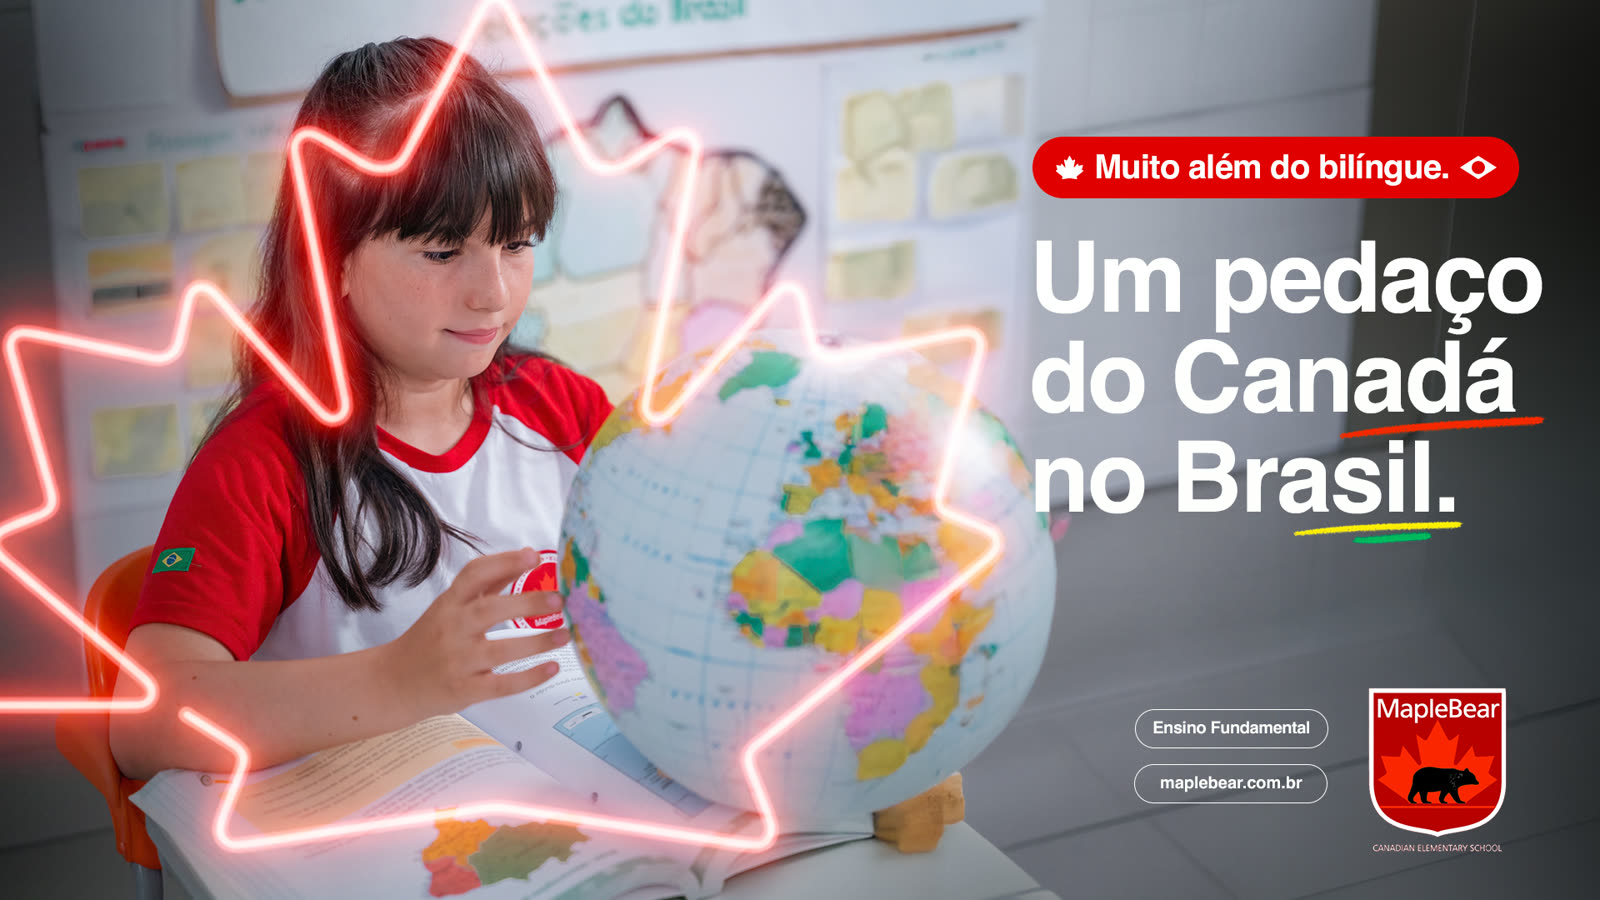
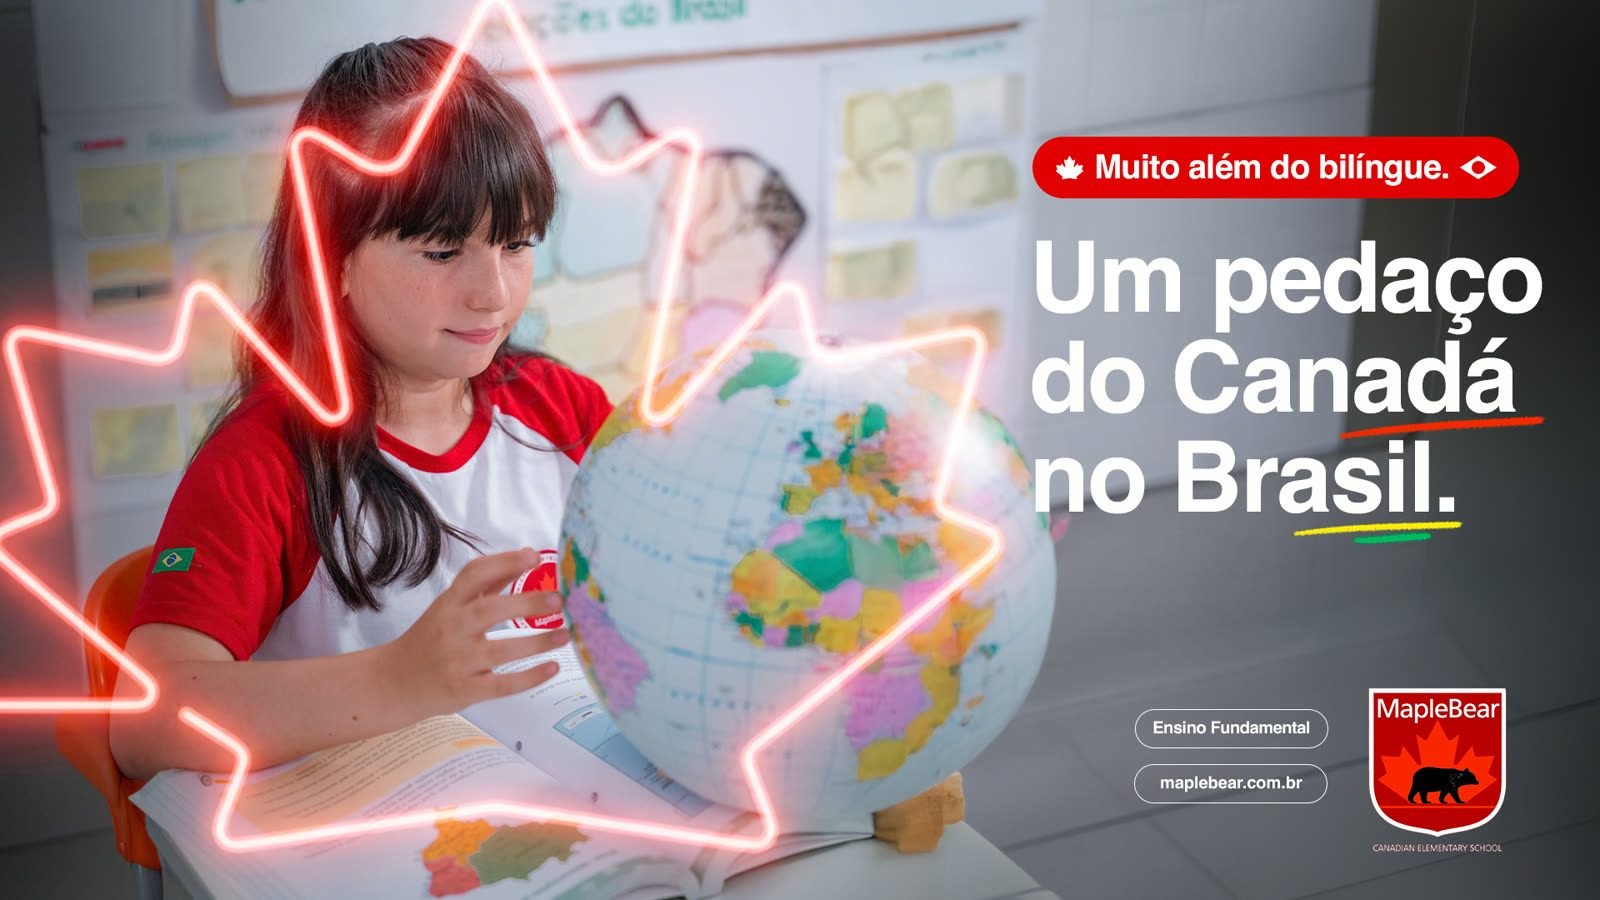
As imagens pesadas saem de 30 MB para 11 MB: capas de 4 MB viravam 8 MB por artigo
Reencode JPEG (qualidade 82, progressivo, máximo 1600 px) só nas imagens acima
de 150 KB; mesmos caminhos, nada de referência mudou. Cache do service worker
avança uma versão para o celular pegar os arquivos novos. Core Web Vitals no
celular é fator de ranqueamento — e a capa de 4 MB era o maior peso do site.

diff --git a/sw.js b/sw.js
@@ -12,7 +12,7 @@
 //     tem, mostra página de erro inline (não a home).
 //  3. Bump de CACHE força invalidação completa do v1.
 
-const CACHE = 'mb-bg-v5';
+const CACHE = 'mb-bg-v6';
 const PRECACHE = [
   '/',
   '/styles.css',
